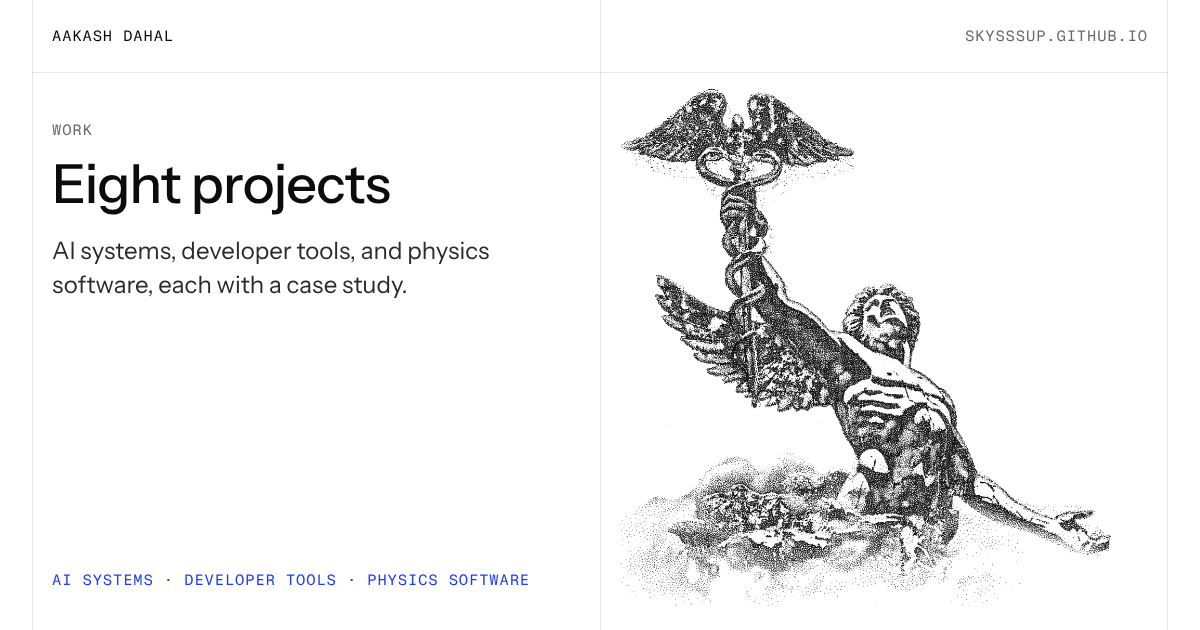
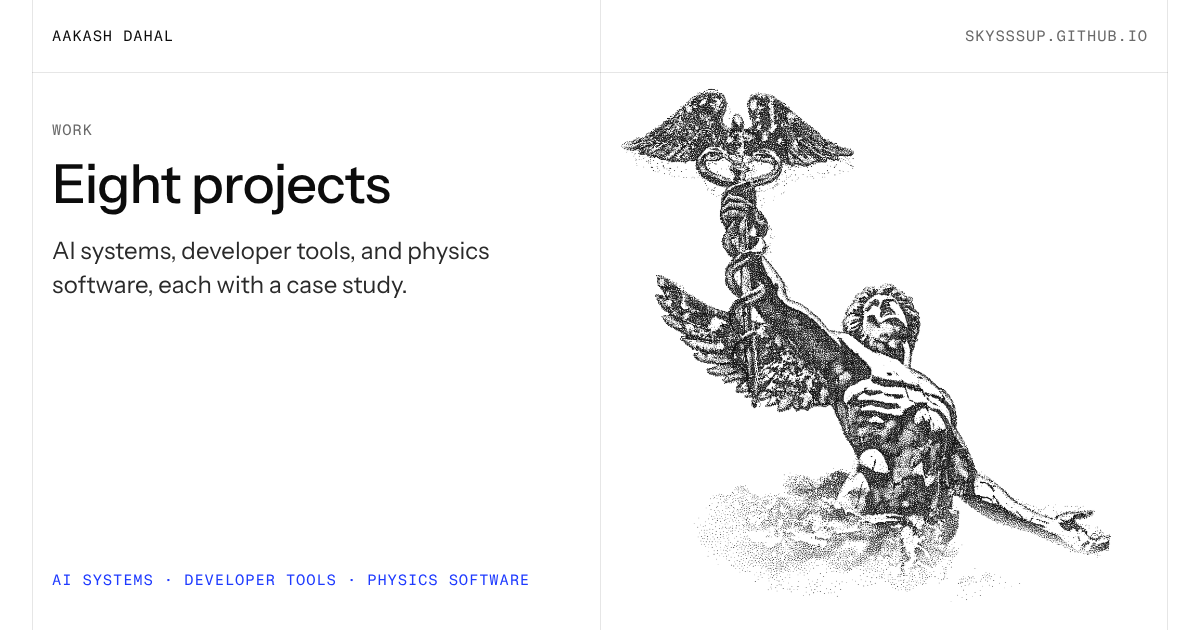
Draw the big cloud bank only in Gear Two, so on light and dark paper the statue rises from its own modest cloud
The owner asked for the massive cloud beside the body to show only on the red figure for now. build.py now works
out how much of the figure at each pixel is the bank's alone (the mask with the bank, less the statue and the modest
cloud right under it and along the arm, as before fa55fad) and writes it into the colour map's unused blue channel,
in 16 levels (color.webp grows by 2.8 KB). The engine flags every dot that the figure would not hold without the
bank: its ink, less the bank's share there, no longer beats its cell's blue-noise threshold. So on light and dark
paper the figure is stippled exactly as if the bank had never been, and in Gear Two it is all there as before.
u_bank (1 in Gear Two) brings the flagged dots in under the switch's flash and glitch and fades them out over
0.3 s as Gear Two ends (at once under reduced motion). While hidden they lift no dust in a gust or the breeze, the
glints in the bank go with them, they are moved out of view so they cost no pixels, and the ring's far glyphs no
longer hide behind a bank that is not drawn. The caption counts the dots drawn: 92,319 at 1440 x 900 on light
paper (site.json and the home page), more in Gear Two.

The stills and previews are drawn without the bank (each map times one minus its share), so the opening's still
still fades into the hold frame in place: their coverage matches block by block (median ratio 1.05, as before).
[…]

Changed region(s): [[0.5242, 0.7238, 0.8017, 0.9349]]

diff --git a/js/hero.js b/js/hero.js
@@ -509,6 +509,7 @@
     "uniform float u_sky;",
     "uniform int u_tiles;",
     "uniform vec2 u_wind;",
+    "uniform float u_bank;",
     "flat out float v_alpha;",
     "flat out float v_size;",
     "flat out float v_star;",
@@ -545,7 +546,7 @@
     "  float an = a_w.z * 6.2831853;",
     "  vec2 normal = vec2(cos(an), sin(an));",
     "  float lee = clamp(dot(normal, wind) * 0.8 + 0.2, 0.0, 1.0);",
-    "  if (r01(id * 19u + uint(sh.z) * 7u + 3u) >= u_flow.x * near * lee) return g;",
+    "  if (r01(id * 19u + uint(sh.z) * 7u + 3u) >= u_flow.x * near * lee * (1.0 - a_e.x * (1.0 - u_bank))) return g;",
     "  float life = 1.2 + 0.6 * r01(id * 23u + 1u), reach = (0.02 + 0.05 * s3) * w;",
     "  if (since < life) {",
     "    float q = since / life, s = reach * (1.0 - exp(-2.5 * q)), L = 0.005 * w, lift = L * (1.0 - exp(-s / L));",
@@ -567,6 +568,8 @@
     "void main() {",
     "  uint id = uint(gl_VertexID);",
     "  float s1 = r01(id * 3u + 1u), s2 = r01(id * 3u + 2u), s3 = r01(id * 3u + 3u);",
+    // the dots that only the cloud bank holds (a_e.x) are drawn in Gear Two alone (u_bank, eased over the switch)
+    "  float hidden = a_e.x * (1.0 - u_bank);",
     "  vec3 p = vec3(a_p.x - u_pivot.x, u_pivot.y - a_p.y, (a_p.z - 0.62) * u_depth);",
     // assemble from a scattered shell, centre first
     "  float reach = length(p.xy);",
@@ -695,7 +698,7 @@
     "      float an = a_w.z * 6.2831853;",
     "      vec2 away = vec2(cos(an), sin(an)), bz = breeze(u_time - tau);",
     "      float lee = clamp(dot(away, bz) * 0.7 + 0.3, 0.0, 1.0);",
-    "      if (u_time - tau >= u_breeze.w && r01(cid * 5u + uint(cyc) * 3u) < 0.5 && r01(id * 29u + uint(cyc) * 13u) < u_breeze.y * near * lee) {",
+    "      if (u_time - tau >= u_breeze.w && r01(cid * 5u + uint(cyc) * 3u) < 0.5 && r01(id * 29u + uint(cyc) * 13u) < u_breeze.y * near * lee * (1.0 - hidden)) {",
     "        float fly = (0.012 + 0.025 * s3) * W, v = W * (0.025 + 0.02 * r01(id * 37u + 3u));",
     "        float s = v * max(0.0, tau - 0.4 * (1.0 - exp(-tau / 0.4)));",
     "        if (s < inside + fly) {",
@@ -800,7 +803,7 @@
     "  size = mix(size * 0.7, size, k);",
     "  v_alpha = (0.62 + 0.38 * smoothstep(-0.25, 0.2, p.z)) * fade * mix(0.0, 1.0, smoothstep(0.0, 0.25, k)) * u_alpha;",
     "  v_alpha = mix(v_alpha, u_alpha, max(max(band, star), blown)) * show;",
-    "  v_alpha *= vis;",
+    "  v_alpha *= vis * (1.0 - hidden);",
     "  v_star = star;",
     "  v_blown = blown;",
     "  v_heading = normalize(heading);",
@@ -822,11 +825,12 @@
     "    v_size = u_dot * mix(2.5 + 5.0 * a_p.w * a_p.w, 1.6 + 3.5 * a_p.w * a_p.w, a_c.g) * (0.7 + 0.3 * twinkle + 0.3 * band) * persp * u_dpr;",
     "    v_sprite = v_size + 0.5;",
     // (a glint has no dot of its own: before the colours arrive it draws nothing, not a disc of its size)
-    "    v_alpha = v_glint > 0.0 ? u_alpha * swapShow : 0.0;",
+    "    v_alpha = v_glint > 0.0 ? u_alpha * swapShow * (1.0 - hidden) : 0.0;",
     "    v_star = v_blown = v_flare = 0.0;",
     "  }",
     "  gl_PointSize = v_sprite;",
-    "  gl_Position = vec4(px / u_res * 2.0 - 1.0, 0.0, 1.0) * vec4(1.0, -1.0, 1.0, 1.0);",
+    // (a dot the bank alone holds, while the bank is away, is put outside the view, so it costs no pixels)
+    "  gl_Position = hidden > 0.999 ? vec4(-2.0, -2.0, 0.0, 1.0) : vec4(px / u_res * 2.0 - 1.0, 0.0, 1.0) * vec4(1.0, -1.0, 1.0, 1.0);",
     "}"
   ].join("\n");
 
@@ -994,6 +998,8 @@
     var colors = readColors();
     var inkNow = rgb(colors.ink), inkFrom = inkNow, inkTo = inkNow, inkAt = 0;
     var tintNow = tintFor(colors), tintFrom = tintNow, tintTo = tintNow;
+    // how much of the cloud bank is drawn: all of it in Gear Two, none on light and dark paper
+    var bankNow = colors.gear ? 1 : 0;
     var yaw = { x: 0, v: 0 }, pitch = { x: 0, v: 0 }, pushK = { x: 0, v: 0 };
     var pointer = { x: -1e4, y: -1e4, inside: false, tx: 0, ty: 0 };
     var touch = null;
@@ -1082,7 +1088,7 @@
         gl.linkProgram(prog);
         if (!gl.getProgramParameter(prog, gl.LINK_STATUS)) throw new Error(gl.getProgramInfoLog(prog));
         gl.useProgram(prog);
-        ["u_res", "u_box", "u_pivot", "u_depth", "u_rot", "u_time", "u_build", "u_pointer", "u_rip", "u_blink", "u_beat", "u_dot", "u_dpr", "u_glitch", "u_tile", "u_shift", "u_offset", "u_alpha", "u_color", "u_tint", "u_palette", "u_lit", "u_deep", "u_hot", "u_sheen", "u_span", "u_flow", "u_light", "u_positive", "u_swap", "u_last", "u_breeze", "u_tone", "u_glint", "u_stir", "u_puff", "u_puffv", "u_blast", "u_gusts", "u_core", "u_sky", "u_tiles", "u_wind"].forEach(function (n) { U[n] = gl.getUniformLocation(prog, n); });
+        ["u_res", "u_box", "u_pivot", "u_depth", "u_rot", "u_time", "u_build", "u_pointer", "u_rip", "u_blink", "u_beat", "u_dot", "u_dpr", "u_glitch", "u_tile", "u_shift", "u_offset", "u_alpha", "u_color", "u_tint", "u_palette", "u_lit", "u_deep", "u_hot", "u_sheen", "u_span", "u_flow", "u_light", "u_positive", "u_swap", "u_last", "u_breeze", "u_tone", "u_glint", "u_stir", "u_puff", "u_puffv", "u_blast", "u_gusts", "u_core", "u_sky", "u_tiles", "u_wind", "u_bank"].forEach(function (n) { U[n] = gl.getUniformLocation(prog, n); });
         vao = gl.createVertexArray();
         vbo = gl.createBuffer();
         query = gl.createQuery();
@@ -1142,6 +1148,10 @@
       if (!sky) sky = skyStars(relief.data, relief.width);
       var g = stars.length / 3, k = sky.length / 3, total = n + g + k;
       var buffer = new ArrayBuffer(total * VERTEX), floats = new Float32Array(buffer), bytes = new Uint8Array(buffer), f = VERTEX / 4;
+      // the cloud bank is drawn in Gear Two alone: a dot that the figure would not hold without it (its ink, less the
+      // bank's share there, the color map's blue, no longer beats its cell's threshold) is flagged, so on light and
+      // dark paper the figure is the statue and its modest base cloud, stippled exactly as if the bank had never been
+      var cells = fine ? res * 2 : res, kept = fine ? meta.density * FINE_INK : meta.density, banked = 0;
       for (var i = 0; i < n; i++) {
         floats[i * f] = spots[i * 3];
         floats[i * f + 1] = spots[i * 3 + 1];
@@ -1155,6 +1165,10 @@
         bytes[o + 1] = tints ? tints[i * 4 + 1] : 0;
         bytes[o + 2] = details[i * 4 + 1];
         bytes[o + 3] = tints ? tints[i * 4 + 3] : 0;
+        if (tints && tints[i * 4 + 2]) {
+          var gx = Math.floor(spots[i * 3] * cells), gy = Math.floor(spots[i * 3 + 1] * cells);
+          if (spots[i * 3 + 2] * (1 - tints[i * 4 + 2] / 255) * kept <= noise.data[(gy % noise.width) * noise.width + (gx % noise.width)] / 255) { bytes[o + 4] = 255; banked++; }
+        }
         // how much smaller the dot is drawn on the fine grid
         bytes[o + 6] = Math.round(fineScale(fine, spots[i * 3 + 2]) * 255);
         // which way is out of the figure from the dot, and how far in it lies (255 for a tenth of the figure or more)
@@ -1173,6 +1187,7 @@
         floats[at + 2] = inside ? deep[j * 3 + 2] : 0.45;
         floats[at + 3] = stars[j * 3 + 2];
         bytes[(n + j) * VERTEX + 24] = MARBLE;
+        bytes[(n + j) * VERTEX + 28] = bankAt(stars[j * 3], stars[j * 3 + 1]) > 127 ? 255 : 0;
         bytes[(n + j) * VERTEX + 31] = 255;
       }
       // and the stars of the sky, far behind the figure, flagged in the material's weight (a_c.g), which a glint has
@@ -1188,7 +1203,7 @@
         bytes[(n + g + q) * VERTEX + 31] = 255;
       }
       var lit = Math.max(1, litDots(normals));
-      return { vertices: bytes, count: total, dots: n, stars: [Math.min(1, STARS / lit), Math.min(1, STARS_BRIGHT / lit)] };
+      return { vertices: bytes, count: total, dots: n, banked: banked, stars: [Math.min(1, STARS / lit), Math.min(1, STARS_BRIGHT / lit)] };
     }
 
     function size() {
@@ -1230,8 +1245,8 @@
         vertices = shapes[set].vertices;
         count = shapes[set].count;
         starChance = shapes[set].stars;
-        if (opts.onCount) opts.onCount(shapes[set].dots);
       }
+      announce();
       if (!count) throw new Error("hero data is empty");
       gl.bindBuffer(gl.ARRAY_BUFFER, vbo);
       gl.bufferData(gl.ARRAY_BUFFER, vertices, gl.STATIC_DRAW);
@@ -1240,6 +1255,22 @@
       ringFont = clamp(Math.round(s / 56), 10, 12);
       ring = null;
       return true;
+    }
+
+    // How many dots the figure draws: the cloud bank's own only in Gear Two.
+    var announced = -1;
+    function announce() {
+      var shown = shapes[set] ? shapes[set].dots - (colors.gear ? 0 : shapes[set].banked) : -1;
+      if (shown < 0 || shown === announced) return;
+      announced = shown;
+      if (opts.onCount) opts.onCount(shown);
+    }
+
+    // The cloud bank's share of the figure at a point (figure units): the color map's blue, 0..255.
+    function bankAt(fx, fy) {
+      if (!palette) return 0;
+      var last = palette.width - 1;
+      return palette.data[(Math.round(clamp(fy, 0, 1) * last) * palette.width + Math.round(clamp(fx, 0, 1) * last)) * 4 + 2];
     }
 
     // The dots follow the paper (dotMap): when it turns between light and dark, the figure is drawn from the other
@@ -1296,7 +1327,7 @@
       var u = (sx - box.x - place.x) / place.scale, v = (sy - box.y - place.y) / place.scale;
       if (u < 0 || v < 0 || u >= 1 || v >= 1) return 0;
       var n = relief.width, i = (Math.floor(v * n) * n + Math.floor(u * n)) * 4;
-      return relief.data[i] > 0 ? 1 : 0;
+      return relief.data[i] > 0 && (bankNow >= 0.5 || bankAt(u, v) < 128) ? 1 : 0;
     }
 
     // Gear Two glitch tiles on the overlay: a thin accent frame around each torn-out block, drawn where it lands.
@@ -1557,6 +1588,9 @@
         pitch.x = swayPitch;
         yaw.v = pitch.v = pushK.x = pushK.v = 0;
       }
+      // the cloud bank comes in under Gear Two's switch and leaves over 0.3 s as it ends
+      var bankTo = gear ? 1 : 0;
+      bankNow = live ? (bankNow < bankTo ? Math.min(bankTo, bankNow + dt / 0.3) : Math.max(bankTo, bankNow - dt / 0.3)) : bankTo;
       if (inkAt) {
         var q = clamp((now - inkAt) / 320, 0, 1);
         inkNow = [0, 1, 2].map(function (c) { return inkFrom[c] + (inkTo[c] - inkFrom[c]) * q; });
@@ -1687,6 +1721,7 @@
       // the breeze as it blows now, which a drifting dot follows (the shader's breeze(), worked out once a frame)
       var wx = Math.sin(t * 0.26) + 0.35 * Math.sin(t * 0.61 + 1.3), wy = 0.25 * Math.sin(t * 0.37 + 0.6), wl = Math.hypot(wx, wy) || 1;
       gl.uniform2f(U.u_wind, wx / wl, wy / wl);
+      gl.uniform1f(U.u_bank, bankNow);
       // the dots stand for light on dark paper; while the paper's turn swaps them, the new map's appear behind a band
       // of light and the old map's give way ahead of it
       var swapAge = swap ? Math.max(0, now - swap.at) / 1000 : 0;
@@ -1768,7 +1803,7 @@
       if (phase === "glitch" || phase === "flash") glitchUntil = performance.now() + 520;
       // leaving Gear Two: the tearing stops just after the palette comes back
       if (was.gear && !colors.gear) { glitchUntil = Math.min(glitchUntil, performance.now() + 140); tear = null; }
-      if (was.gear !== colors.gear) ring = null;
+      if (was.gear !== colors.gear) { ring = null; announce(); }
       // when the opening turns the page red, one bolt of lightning strikes the figure: the only lightning there is
       if (!was.gear && colors.gear && intro && intro.stage === "red" && canInteract()) strike(box.x + box.size / 2, box.y + box.size / 2);
       follow();

diff --git a/index.html b/index.html
@@ -76,7 +76,7 @@
           <li><a href="/work/?theme=physics-software" data-theme-link="physics-software"><span class="t-label muted">03</span><span class="t-small">Physics software</span><span class="t-label muted num">01</span></a></li>
         </ol>
       </nav>
-      <div class="fig-note"><p class="t-label muted">Fig. 0&nbsp;· Interactive sculpture</p><p class="t-small">My GitHub avatar as <span data-dot-count>105,788</span> dots in five materials, lifted into 3D with a monocular depth map. <span class="fine">Move the cursor to stir them.</span><span class="coarse">Drag sideways to turn it.</span></p><p class="fig-telemetry t-label muted num" data-hero-telemetry aria-hidden="true" hidden></p></div>
+      <div class="fig-note"><p class="t-label muted">Fig. 0&nbsp;· Interactive sculpture</p><p class="t-small">My GitHub avatar as <span data-dot-count>92,319</span> dots in five materials, lifted into 3D with a monocular depth map. <span class="fine">Move the cursor to stir them.</span><span class="coarse">Drag sideways to turn it.</span></p><p class="fig-telemetry t-label muted num" data-hero-telemetry aria-hidden="true" hidden></p></div>
     </div>
   </section>
 

diff --git a/tools/hero/build.py b/tools/hero/build.py
@@ -9,7 +9,8 @@ Turns assets/avatar.jpg into the data the WebGL engine (js/hero.js) stipples at 
   assets/hero/depth.webp     448x448, lossless: R = depth (near = bright, 0 = outside the figure), G = detail,
                              B = the sky's stars (0, or 1 + 254 x a star's strength)
   assets/hero/color.webp     448x448, lossless RGBA: R = material (gold, marble, cloud, lightning, glint) x 51,
-                             G = how strongly the pixel belongs to it, A = 128 + its sparkle highlights
+                             G = how strongly the pixel belongs to it, B = how much of the figure there is the cloud
+                             bank's alone (drawn only in Gear Two), A = 128 + its sparkle highlights
   assets/hero/bluenoise.png  64x64 void-and-cluster threshold map, tiled by the engine
   assets/hero/hero.json      map sizes, figure bounds and centre of mass, used to frame the figure
   assets/hero/still.webp     transparent still frame, used before WebGL starts and without WebGL; preview.webp is
@@ -206,6 +207,10 @@ def maps():
         * (1 - smoothstep(0.56, 0.76, xx)) * (1 - smoothstep(0.83, 0.985, yy))
     mask = blurf(np.maximum(statue, bank), 1.6)
     statue = blurf(statue, 1.6)
+    # How much of the figure at each pixel is the bank's alone (0 on the statue and the modest cloud right under it, 1
+    # out in the billows): the engine draws the bank only in Gear Two, so on light and dark paper the statue rises from
+    # its own base cloud as it did before the bank came in.
+    own = np.clip(1 - statue / np.maximum(mask, 1e-3), 0, 1) * (mask > 0.02)
 
     # Shade it like an engraving. The image's own light carries the features (eye sockets, nostrils, the open
     # mouth are its local darks), so its tone and local shadows lead; the depth surface, lit from the upper left,
@@ -281,7 +286,7 @@ def maps():
     # inside the bank the depth is smoothed and drawn into a narrow range around the statue's base.
     calm = blurf(vapour, 5.0)
     relief = dep * (1 - calm) + calm * (0.64 + 0.28 * blurf(dep, 8.0))
-    return relief, ink, light, mask, statue, detail
+    return relief, ink, light, mask, statue, detail, own
 
 
 # The five materials, in index order. css/site.css gives each a base and a lit color per mode.
@@ -320,7 +325,7 @@ def clouds(size):
     return ((yy > 330) | ((xx < 165) & (yy > 280))) & ~zone(TORSO, size) & ~zone(ARM, size)
 
 
-def material_map(inside):
+def material_map(inside, own):
     """Which material each pixel of the figure is made of. Color alone cannot tell them apart in this image: gold,
     marble, cloud, and glint overlap in every CIELAB channel, and a five-way k-means over the figure splits it by
     lightness instead (shadows one cluster, highlights another). So the avatar's layout names a few zones once,
@@ -330,8 +335,9 @@ def material_map(inside):
     curls in shadow are as cool as the stone, so color alone would leave them out); below the statue the clouds are
     rose, with cyan lightning and gold rubble in them; everything else is marble.
     Writes color.webp: R = material index x 51; G = how strongly the pixel belongs to it, fading to 0 within
-    2 px of a boundary, so a dot on an edge shows ink instead of flickering between two materials; B unused;
-    A = 128 + sparkle (an opaque floor: browsers premultiply canvas pixels by alpha, so a transparent pixel would
+    2 px of a boundary, so a dot on an edge shows ink instead of flickering between two materials; B = how much of
+    the figure there is the cloud bank's alone (`own` from maps(), 0 on the statue), which the engine draws only in
+    Gear Two; A = 128 + sparkle (an opaque floor: browsers premultiply canvas pixels by alpha, so a transparent pixel would
     lose its other channels on the way to the engine)."""
     src = Image.open(AVATAR).convert('RGB').resize((M, M), Image.LANCZOS)
     rgb = np.asarray(src, np.float32) / 255
@@ -371,7 +377,7 @@ def material_map(inside):
     lum = 0.2126 * rgb[..., 0] + 0.7152 * rgb[..., 1] + 0.0722 * rgb[..., 2]
     sparkle = np.clip((lum - blurf(lum, 2.5) - 0.10) / 0.22, 0, 1) * smoothstep(0.55, 0.85, lum)
     sparkle = np.clip(blurf(sparkle, 0.7) * 1.4, 0, 1)
-    rgba = np.dstack([index * 51, u8(weight), np.zeros((M, M)), 128 + np.round(sparkle * 127)]).astype(np.uint8)
+    rgba = np.dstack([index * 51, u8(weight), np.where(inside, u8(np.round(half(own) * 15) / 15), 0), 128 + np.round(sparkle * 127)]).astype(np.uint8)
     lossless(rgba, 'color.webp')
     return index, weight, sparkle
 
@@ -492,9 +498,9 @@ def main():
         return
     if '--upscale' in sys.argv:
         upscale()
-    dep, ink, light, mask, statue, detail = maps()
+    dep, ink, light, mask, statue, detail, own = maps()
     inside = half(mask) > 0.04
-    index, weight, sparkle = material_map(inside)
+    index, weight, sparkle = material_map(inside, own)
     if '--color' in sys.argv:
         print('wrote color.webp:', ', '.join(f'{n} {float((index[inside] == k).mean()):.1%}' for k, n in enumerate(MATERIALS)))
         return
@@ -527,8 +533,9 @@ def main():
     }
     json.dump(meta, open(os.path.join(OUT, 'hero.json'), 'w'), indent=1)
 
-    n = still(levels, bn, dep, detail, meta, '')
-    still(light_levels, bn, dep, detail, meta, '-dark')
+    # the stills cover the page on light and dark paper, where the bank is not drawn
+    n = still(levels * (1 - own), bn, dep, detail, meta, '')
+    still(light_levels * (1 - own), bn, dep, detail, meta, '-dark')
     print(json.dumps(meta), n, 'still points')
 
 
